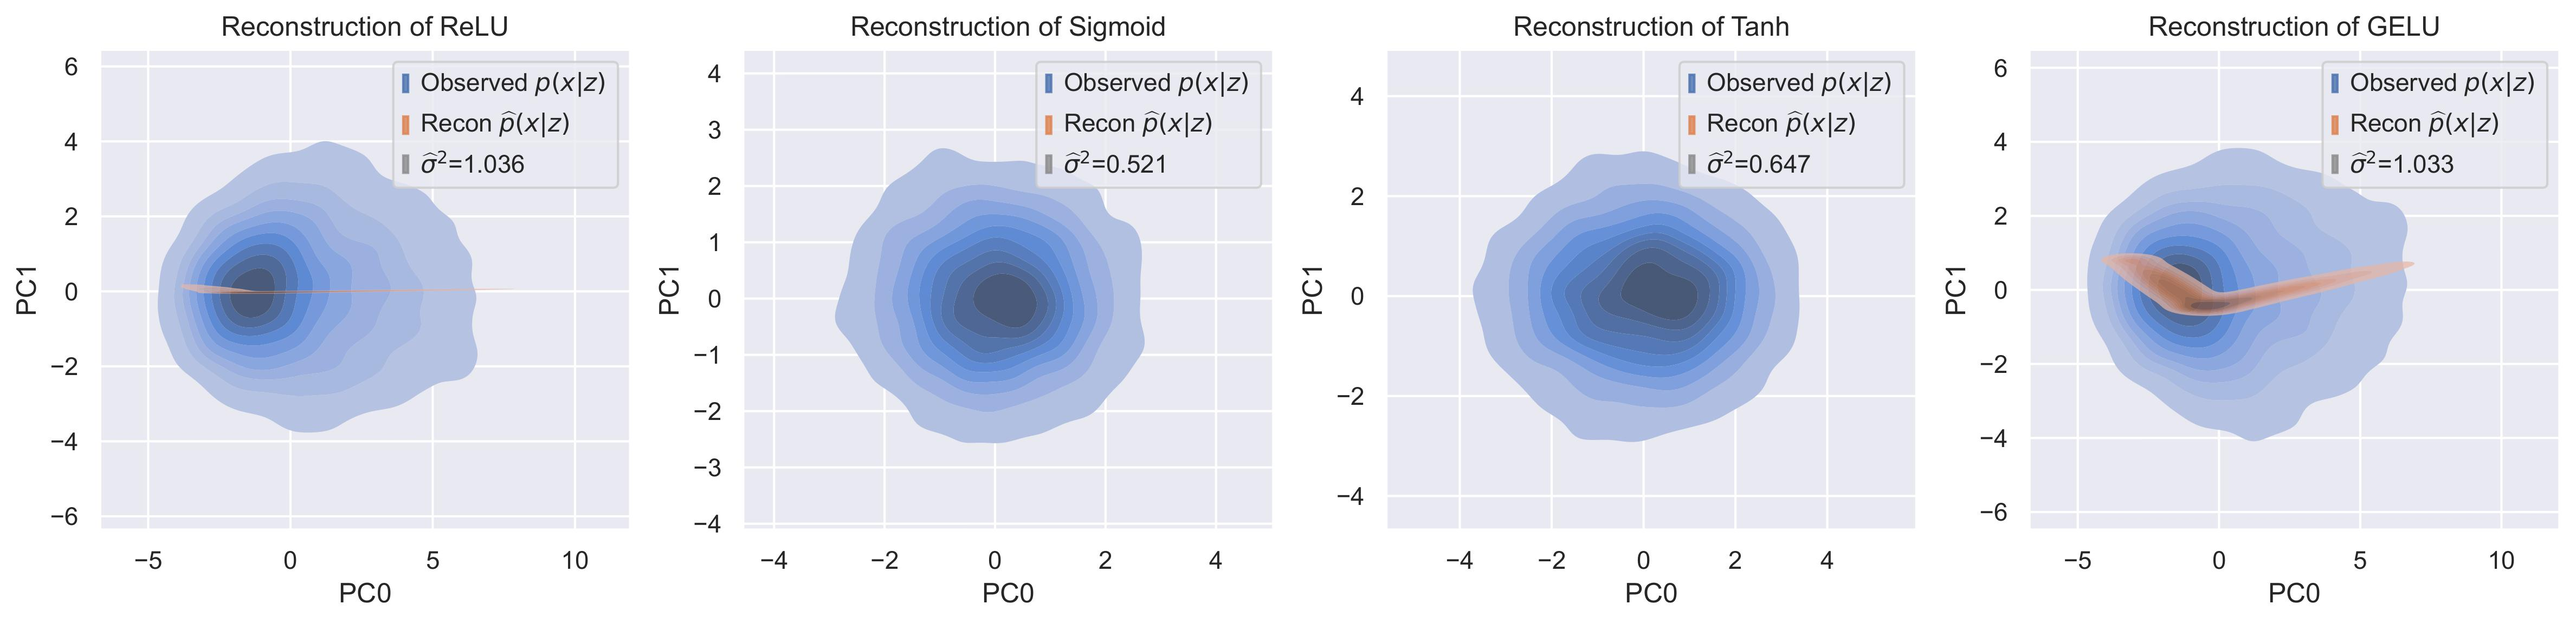
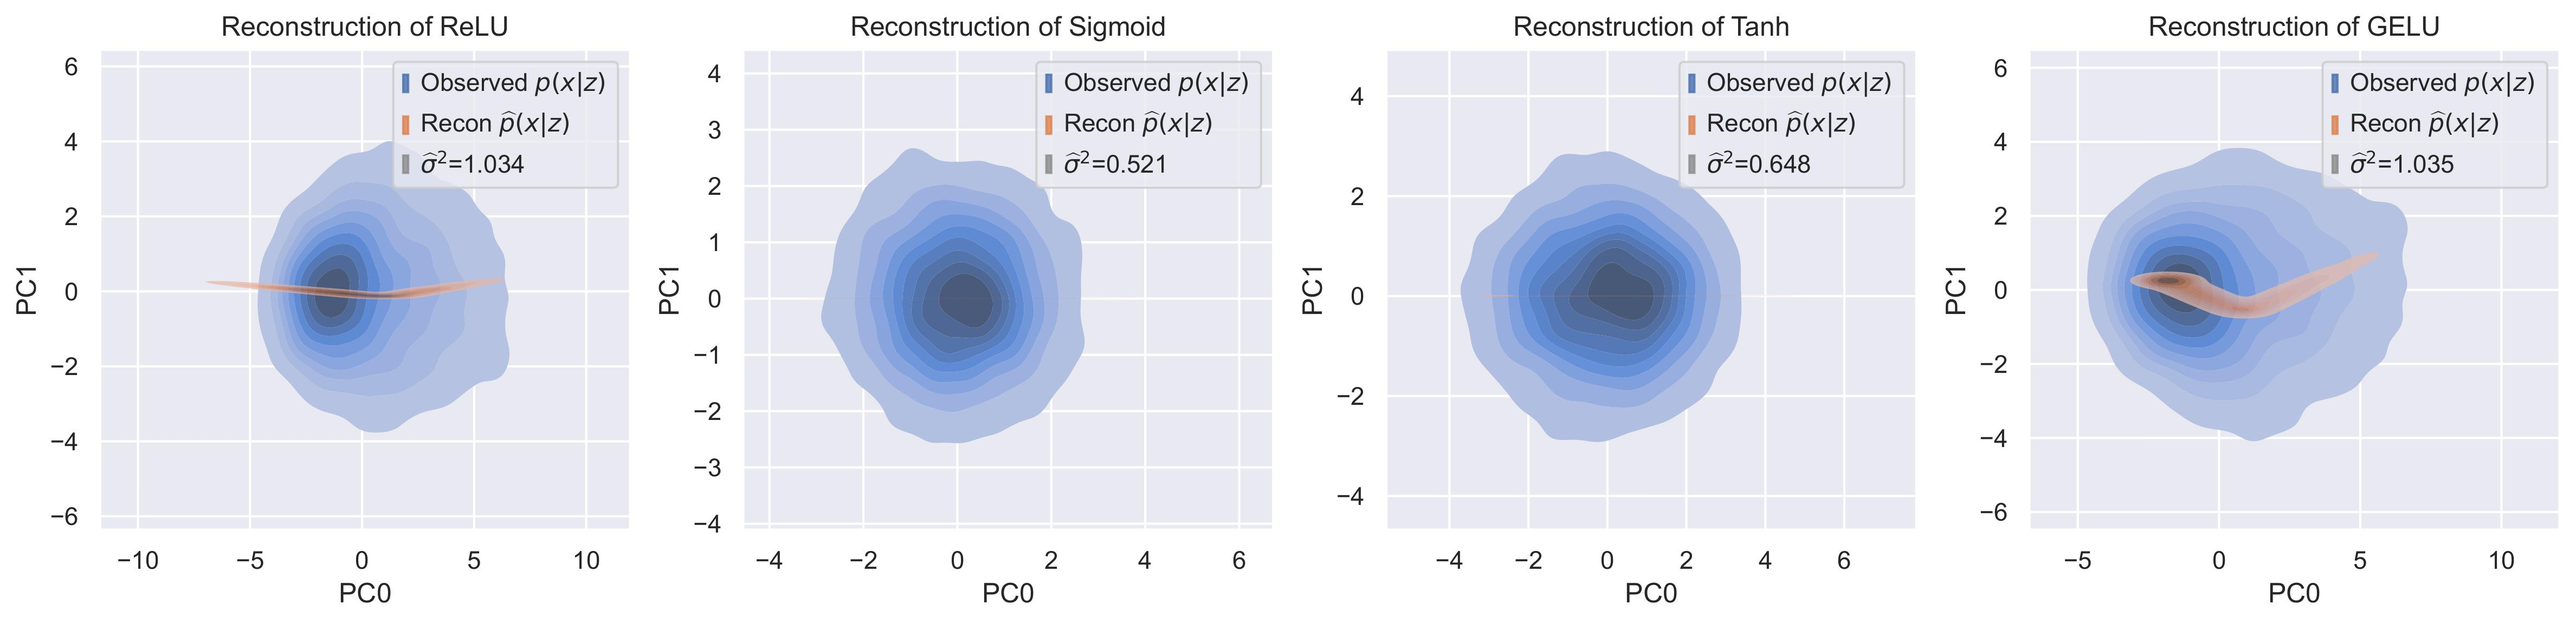
update

diff --git a/main.py b/main.py
@@ -88,15 +88,15 @@ def plotting(m, n, model_name, llh_method):
     callback = plot_callback(m, n, model_name, llh_method=llh_method)
     recon.savefig(os.path.join(figure_path, f"recon_m{m}_n{n}.pdf"), bbox_inches="tight")
     callback.savefig(os.path.join(figure_path, f"callback_m{m}_n{n}_{llh_method}.pdf"), bbox_inches="tight")
-    # if model_name == "vae":
-    #     latent = plot_latent_2d(m, n, model_name)
-    #     latent.savefig(os.path.join(figure_path, f"latent_m{m}_n{n}.pdf"), bbox_inches="tight")
+    if model_name == "vae":
+        latent = plot_latent_2d(m, n, model_name)
+        latent.savefig(os.path.join(figure_path, f"latent_m{m}_n{n}.pdf"), bbox_inches="tight")
 
 
 if __name__ == "__main__":
     from torch import nn
-    # main(m=2, n=2, activation=nn.ReLU(), model_name="mleauto", llh_method="mc")
-    # main(m=2, n=2, activation=nn.Sigmoid(), model_name="mleauto", llh_method="mc")
-    # main(m=2, n=2, activation=nn.Tanh(), model_name="mleauto", llh_method="mc")
-    # main(m=2, n=2, activation=nn.GELU(), model_name="mleauto", llh_method="mc")
-    plotting(m=2, n=20, model_name="vae", llh_method="mc")
+    main(m=2, n=20, activation=nn.ReLU(), model_name="mleauto", llh_method="mc")
+    main(m=2, n=20, activation=nn.Sigmoid(), model_name="mleauto", llh_method="mc")
+    main(m=2, n=20, activation=nn.Tanh(), model_name="mleauto", llh_method="mc")
+    main(m=2, n=20, activation=nn.GELU(), model_name="mleauto", llh_method="mc")
+    plotting(m=2, n=20, model_name="mleauto", llh_method="mc")
